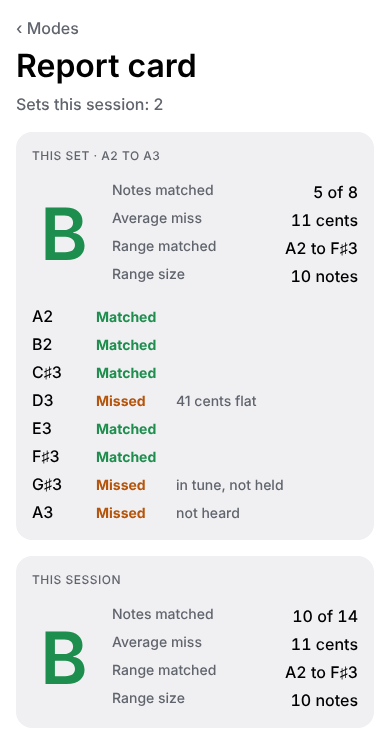
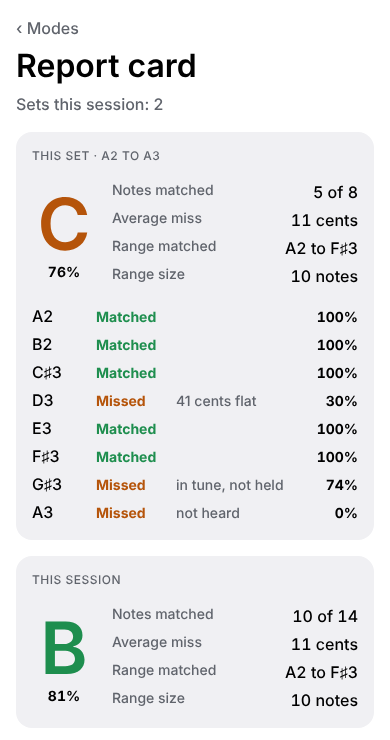
Partial credit for missed notes, percent scores, and new go-again choices
- A missed note now scores up to 50 for closeness and up to 50 for the
  share of the hold done in tune. Each note shows its score.
- The report card shows a percent with its letter, on the school scale:
  A from 90, B from 80, C from 70, D from 60, F below.
- After a set: down half an octave, down one note, stay, up one note, up
  half an octave. One note is one semitone.

Asked for by Matthew. Not yet run on a phone.

Claude-Session: https://claude.ai/code/session_01EhvhxF2ApEVECPjC4LiiYY

Changed region(s): [[0.8, 0.4041, 0.9231, 0.7149], [0.0923, 0.8392, 0.2154, 0.9635], [0.0923, 0.2486, 0.2154, 0.373]]

diff --git a/src/lib/report.ts b/src/lib/report.ts
@@ -6,11 +6,31 @@
  */
 import type { StepResult } from './exercise.ts';
 
+/**
+ * A score for one note, from 0 to 100.
+ *
+ * A matched note scores 100. A missed note earns partial credit in two
+ * halves: up to 50 for how close the best attempt came, and up to 50 for how
+ * much of the hold was done in tune. The closeness half is full marks dead
+ * on the note and falls to nothing a semitone (100 cents) away. A note that
+ * was never heard scores 0.
+ */
+export function noteScore(result: StepResult): number {
+  if (result.matched) return 100;
+  if (result.closestCents === null) return 0;
+  const closeness = Math.max(0, 1 - Math.abs(result.closestCents) / 100);
+  const held = result.step.holdMs <= 0 ? 0 : Math.min(1, result.heldMs / result.step.holdMs);
+  // A miss can come close to full marks but never reach them.
+  return Math.min(99, Math.round(50 * closeness + 50 * held));
+}
+
 export type Summary = {
   /** Notes tried. */
   attempted: number;
   /** Notes held in tune for long enough. */
   matched: number;
+  /** The average note score, 0 to 100. Null when no notes were tried. */
+  score: number | null;
   /** Average distance from the note on the best attempt, in cents. Null if nothing was heard. */
   averageOffCents: number | null;
   /** The lowest and highest notes matched, in the octave they were really sung. */
@@ -26,7 +46,9 @@ export function summarize(results: StepResult[]): Summary {
   let lowestSung: number | null = null;
   let highestSung: number | null = null;
   let longestHoldMs = 0;
+  let scoreSum = 0;
   for (const result of results) {
+    scoreSum += noteScore(result);
     if (result.closestCents !== null) {
       offSum += Math.abs(result.closestCents);
       heard++;
@@ -42,6 +64,7 @@ export function summarize(results: StepResult[]): Summary {
   return {
     attempted: results.length,
     matched,
+    score: results.length === 0 ? null : Math.round(scoreSum / results.length),
     averageOffCents: heard === 0 ? null : offSum / heard,
     lowestSung,
     highestSung,
@@ -49,19 +72,16 @@ export function summarize(results: StepResult[]): Summary {
   };
 }
 
-export type Grade = 'A' | 'B' | 'C' | 'D';
+export type Grade = 'A' | 'B' | 'C' | 'D' | 'F';
 
-/**
- * A letter for the share of notes matched: A for seven in eight or better,
- * B for five in eight, C for three in eight, D below that.
- */
+/** The usual school scale: A from 90, B from 80, C from 70, D from 60, F below. */
 export function grade(summary: Summary): Grade | null {
-  if (summary.attempted === 0) return null;
-  const share = summary.matched / summary.attempted;
-  if (share >= 0.875) return 'A';
-  if (share >= 0.625) return 'B';
-  if (share >= 0.375) return 'C';
-  return 'D';
+  if (summary.score === null) return null;
+  if (summary.score >= 90) return 'A';
+  if (summary.score >= 80) return 'B';
+  if (summary.score >= 70) return 'C';
+  if (summary.score >= 60) return 'D';
+  return 'F';
 }
 
 /** How many notes wide the matched range is. A2 to A3 is 13. */

diff --git a/src/components/report-card.tsx b/src/components/report-card.tsx
@@ -7,7 +7,7 @@ import { useTheme } from '@/hooks/use-theme';
 import type { StepResult } from '@/lib/exercise';
 import { HOLD } from '@/lib/hold';
 import { formatCents, noteName } from '@/lib/notes';
-import { grade, rangeSize, summarize } from '@/lib/report';
+import { grade, noteScore, rangeSize, summarize } from '@/lib/report';
 
 function Fact({ label, value }: { label: string; value: string }) {
   return (
@@ -20,7 +20,7 @@ function Fact({ label, value }: { label: string; value: string }) {
   );
 }
 
-/** One line per note: its name, whether it was matched, and the best attempt. */
+/** One line per note: its name, whether it was matched, the best attempt, and its score. */
 function NoteRows({ results }: { results: StepResult[] }) {
   const theme = useTheme();
   return (
@@ -45,6 +45,9 @@ function NoteRows({ results }: { results: StepResult[] }) {
             </ThemedText>
             <ThemedText type="small" themeColor="textSecondary" style={styles.rowAttempt}>
               {result.matched ? '' : attempt}
+            </ThemedText>
+            <ThemedText type="smallBold" style={styles.rowScore}>
+              {noteScore(result)}%
             </ThemedText>
           </View>
         );
@@ -74,11 +77,16 @@ export function ReportCard({
     <Card>
       <Label>{title}</Label>
       <View style={styles.top}>
-        <ThemedText
-          type="title"
-          style={[styles.grade, { color: letter === 'A' || letter === 'B' ? theme.good : theme.off }]}>
-          {letter ?? '–'}
-        </ThemedText>
+        <View style={styles.gradeBlock}>
+          <ThemedText
+            type="title"
+            style={[styles.grade, { color: letter === 'A' || letter === 'B' ? theme.good : theme.off }]}>
+            {letter ?? '–'}
+          </ThemedText>
+          <ThemedText type="smallBold" style={styles.numbers}>
+            {summary.score === null ? '' : `${summary.score}%`}
+          </ThemedText>
+        </View>
         <View style={styles.facts}>
           <Fact label="Notes matched" value={`${summary.matched} of ${summary.attempted}`} />
           <Fact
@@ -111,10 +119,13 @@ const styles = StyleSheet.create({
     alignItems: 'center',
     gap: Spacing.three,
   },
+  gradeBlock: {
+    minWidth: 64,
+    alignItems: 'center',
+  },
   grade: {
     fontSize: 72,
-    lineHeight: 80,
-    minWidth: 64,
+    lineHeight: 76,
     textAlign: 'center',
   },
   facts: {
@@ -147,5 +158,10 @@ const styles = StyleSheet.create({
   },
   rowAttempt: {
     flex: 1,
+  },
+  rowScore: {
+    width: 44,
+    textAlign: 'right',
+    fontVariant: ['tabular-nums'],
   },
 });

diff --git a/src/lib/quick.ts b/src/lib/quick.ts
@@ -1,7 +1,7 @@
 /**
  * Quick practice: one octave of a major scale, going up, starting low,
- * medium or high. After each set the start can move up or down by a half or
- * a whole octave.
+ * medium or high. After each set the start can move up or down by one note
+ * or by half an octave.
  *
  * Pure logic.
  */
@@ -27,15 +27,26 @@ export function scaleSteps(start: number): Step[] {
   return MAJOR_SCALE.map((above) => noteStep(start + above));
 }
 
-export type Shift = { label: string; by: number };
+export type Shift = {
+  /** Two short lines for a button: an amount over a unit. */
+  label: string;
+  /** The same thing in full, for a screen reader. */
+  spoken: string;
+  /** Semitones to move the start of the scale. */
+  by: number;
+};
 
-/** The choices after a set. Half an octave is six semitones. */
+/**
+ * The choices after a set. Half an octave is six semitones. "One note" is
+ * one semitone, the next piano key, which is how singers walk a warm-up
+ * scale up and down.
+ */
 export const SHIFTS: Shift[] = [
-  { label: 'Down 1', by: -12 },
-  { label: 'Down ½', by: -6 },
-  { label: 'Stay', by: 0 },
-  { label: 'Up ½', by: 6 },
-  { label: 'Up 1', by: 12 },
+  { label: '−½\noctave', spoken: 'Down half an octave', by: -6 },
+  { label: '−1\nnote', spoken: 'Down one note', by: -1 },
+  { label: 'Stay', spoken: 'Stay on the same notes', by: 0 },
+  { label: '+1\nnote', spoken: 'Up one note', by: 1 },
+  { label: '+½\noctave', spoken: 'Up half an octave', by: 6 },
 ];
 
 /** A scale needs a tone for its top note, an octave above the start. */

diff --git a/src/components/shift-buttons.tsx b/src/components/shift-buttons.tsx
@@ -5,8 +5,8 @@ import { Spacing } from '@/constants/theme';
 import { SHIFTS, canShift } from '@/lib/quick';
 
 /**
- * The five choices after a set: down an octave, down half, stay, up half,
- * up an octave. A choice with no tones that far is greyed out.
+ * The five choices after a set: down half an octave, down one note, stay,
+ * up one note, up half an octave. A choice with no tones that far is greyed out.
  */
 export function ShiftButtons({ start, onChoose }: { start: number; onChoose: (start: number) => void }) {
   return (
@@ -15,11 +15,10 @@ export function ShiftButtons({ start, onChoose }: { start: number; onChoose: (st
         <View key={shift.label} style={styles.cell}>
           <Button
             compact
-            // Two short lines fit five across a phone: "Down" over "½".
-            label={shift.label.replace(' ', '\n')}
+            label={shift.label}
             primary={shift.by === 0}
             disabled={!canShift(start, shift.by)}
-            accessibilityLabel={shift.by === 0 ? 'Stay on the same octave' : `${shift.label} octave`}
+            accessibilityLabel={shift.spoken}
             onPress={() => onChoose(start + shift.by)}
           />
         </View>

diff --git a/src/app/quick.tsx b/src/app/quick.tsx
@@ -61,7 +61,7 @@ export default function QuickPracticeScreen() {
           <Label>Go again</Label>
           <ShiftButtons start={start} onChoose={sing} />
           <ThemedText type="small" themeColor="textSecondary">
-            Moves the whole scale by octaves. That set was {span(start)}.
+            Moves the whole scale. One note is the next piano key. That set was {span(start)}.
           </ThemedText>
         </Card>
       </Screen>

diff --git a/README.md b/README.md
@@ -10,7 +10,7 @@ Everything in the app is built from one move. The app plays a note for three sec
 
 | Mode | What it does | State |
 | --- | --- | --- |
-| Quick practice | One octave of a major scale, starting low, medium or high. Each note gets one attempt, then the next plays by itself. A report card follows, for the set and for the whole session, and the scale can move down or up by a half or a whole octave. | Built. Not yet run on a phone. |
+| Quick practice | One octave of a major scale, starting low, medium or high. Each note gets one attempt, then the next plays by itself. A report card follows, for the set and for the whole session, with a percent score and a letter grade. Then the scale can stay, or move down or up by one note or half an octave. | Built. Not yet run on a phone. |
 | Progression | Ten guided levels. Level 1 finds your home note, the note you sing when asked for an easy one. Every later level is built from it. Levels train pitch matching, steps, jumps, range and breath control. Progress and achievements are saved on the phone. | Built. Not yet run on a phone. |
 | Song mode | Master one song a phrase at a time, by call and response. | Design only. The screen explains the design. |
 
@@ -84,6 +84,8 @@ The check for this sings a made-up six-note phrase, with vibrato, a repeated not
 - **The tone and the microphone never overlap.** On an iPhone, `expo-audio`'s microphone stream puts the phone in record-only mode, and nothing can play until the stream stops. Taking turns also keeps the app from scoring its own speaker. This is why Song mode is designed as call and response.
 - **The speaker is reset before every tone.** The microphone stream leaves the phone in a quiet "measurement" setting, and a sound that has played once sits at its end. Both made the second tone silent on a real iPhone.
 - **Reference tones are rich in overtones.** A phone speaker is silent below about 300 Hz, so a plain low note would not be heard.
+- **Missed notes earn partial credit.** A matched note scores 100. A missed one gets up to 50 for how close the best attempt came (full marks on the note, nothing a semitone away) and up to 50 for how much of the hold was done in tune. The set's score is the average, graded on the school scale: A from 90, B from 80, C from 70, D from 60.
+- **"One note" is one semitone**, the next piano key. That is how singers walk a warm-up scale up and down.
 - **Round timings came from trying it** (Matthew, 2026-11-16): a 3 second tone, 3.5 seconds of listening, 2 seconds held.
 
 ## Not yet proven
